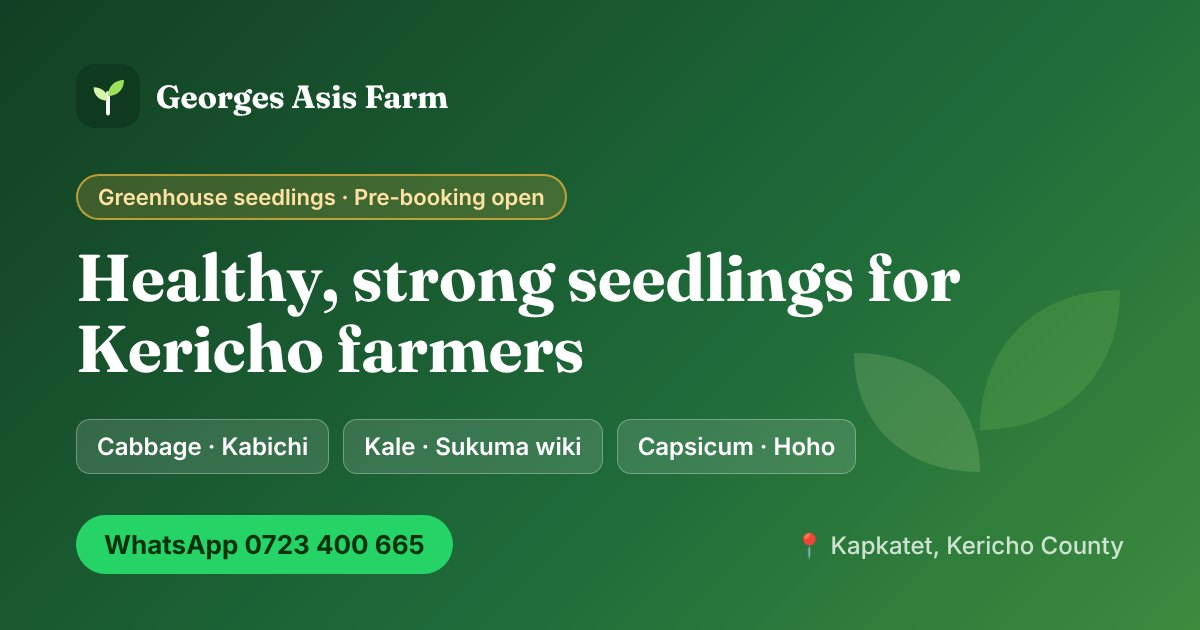
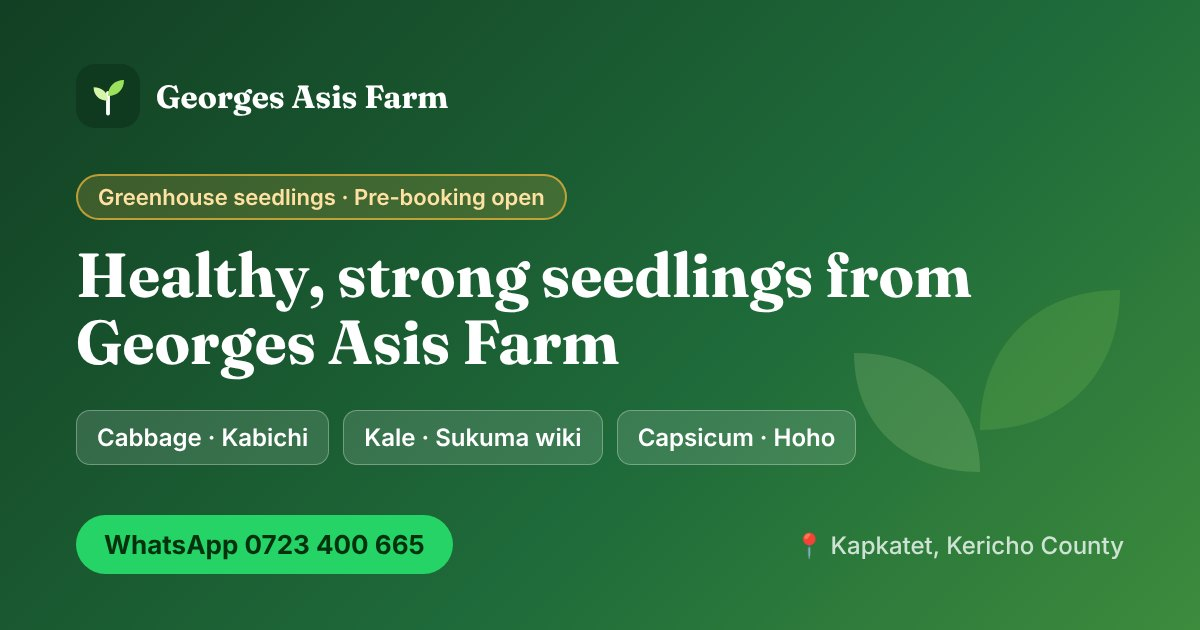
Crop photos, new headline and Google Maps listing link
- Crop cards show photos instead of drawings (drawing kept as fallback)
- Headline: "Healthy, strong seedlings from Georges Asis Farm" with
  "Kapkatet, Kericho County" underneath (English and Kiswahili)
- "Get directions" opens the farm's Google Business Profile on Maps
- Structured data links to the Google listing; preview image updated

Claude-Session: https://claude.ai/code/session_014P8ZKqZaZMJMZDZJx5ghMj

Changed region(s): [[0.0617, 0.3921, 0.8325, 0.6032], [0.0617, 0.6333, 0.7092, 0.754]]

diff --git a/assets/js/data.js b/assets/js/data.js
@@ -11,6 +11,8 @@ window.FARM = {
   landmark: "near Chematich Primary School",
   landmark_sw: "karibu na Shule ya Msingi Chematich",
   mapsQuery: "Chematich Primary School, Kapkatet, Kericho",
+  // Google Business Profile (Google Maps listing). Used for the "Get directions" button.
+  googleMaps: "https://maps.google.com/?cid=5833310573651134852",
 
   // WhatsApp booking line in international format, no + or spaces
   whatsapp: "254723400665",
@@ -33,11 +35,11 @@ window.FARM = {
   // Status shown on the site. When you start selling, set launched: true
   launched: false,
 
-  // Prices are per seedling (KSh)
+  // Prices are per seedling (KSh). photo = picture on the crop card (leave empty to show a drawing)
   seedlings: [
-    { id: "cabbage", name: "Cabbage", local: "Kabichi", price: 2.5, note: "Firm, uniform heads for market and home use.", note_sw: "Vichwa imara vinavyolingana, kwa soko na matumizi ya nyumbani.", art: "cabbage" },
-    { id: "kale", name: "Kale", local: "Sukuma wiki", price: 2, note: "Kenya's everyday green, ready for continuous picking.", note_sw: "Mboga ya kila siku nchini Kenya, tayari kuvunwa mara kwa mara.", art: "kale" },
-    { id: "capsicum", name: "Capsicum", local: "Hoho", price: 4, note: "Sweet pepper seedlings for open field or greenhouse.", note_sw: "Miche ya pilipili hoho kwa shamba la wazi au greenhouse.", art: "capsicum" }
+    { id: "cabbage", name: "Cabbage", local: "Kabichi", price: 2.5, note: "Firm, uniform heads for market and home use.", note_sw: "Vichwa imara vinavyolingana, kwa soko na matumizi ya nyumbani.", art: "cabbage", photo: "assets/img/photos/crop-cabbage.webp" },
+    { id: "kale", name: "Kale", local: "Sukuma wiki", price: 2, note: "Kenya's everyday green, ready for continuous picking.", note_sw: "Mboga ya kila siku nchini Kenya, tayari kuvunwa mara kwa mara.", art: "kale", photo: "assets/img/photos/crop-kale.webp" },
+    { id: "capsicum", name: "Capsicum", local: "Hoho", price: 4, note: "Sweet pepper seedlings for open field or greenhouse.", note_sw: "Miche ya pilipili hoho kwa shamba la wazi au greenhouse.", art: "capsicum", photo: "assets/img/photos/crop-capsicum.webp" }
   ],
 
   // Free photos from Unsplash (Unsplash License), stored in assets/img/photos/.

diff --git a/index.html b/index.html
@@ -16,7 +16,7 @@
   <meta property="og:image" content="https://nelsoncheruiyotmitei.github.io/georges-asis-farm/assets/img/og-image.jpg">
   <meta property="og:image:width" content="1200">
   <meta property="og:image:height" content="630">
-  <meta property="og:image:alt" content="Georges Asis Farm: greenhouse cabbage, kale and capsicum seedlings in Kapkatet, Kericho">
+  <meta property="og:image:alt" content="Georges Asis Farm, Kapkatet: greenhouse cabbage, kale and capsicum seedlings in Kapkatet, Kericho">
   <meta name="twitter:card" content="summary_large_image">
   <meta name="twitter:title" content="Georges Asis Farm | Healthy greenhouse seedlings">
   <meta name="twitter:description" content="Greenhouse cabbage, kale (sukuma wiki) and capsicum (hoho) seedlings in Kapkatet, Kericho. Pre-book on WhatsApp.">
@@ -43,7 +43,8 @@
       "addressRegion": "Kericho County",
       "addressCountry": "KE"
     },
-    "hasMap": "https://www.google.com/maps/search/?api=1&query=Chematich+Primary+School%2C+Kapkatet%2C+Kericho",
+    "hasMap": "https://maps.google.com/?cid=5833310573651134852",
+    "sameAs": ["https://maps.google.com/?cid=5833310573651134852"],
     "areaServed": ["Kericho County", "Bomet County"],
     "openingHoursSpecification": [
       { "@type": "OpeningHoursSpecification", "dayOfWeek": ["Monday", "Tuesday", "Wednesday", "Thursday", "Friday"], "opens": "08:00", "closes": "17:00" },
@@ -89,7 +90,7 @@
       <div class="hero-shade"></div>
       <div class="wrap hero-inner">
         <span class="pill" id="statusPill"><i></i> Launching soon · Pre-booking open</span>
-        <h1 data-i18n="h1">Healthy, strong seedlings for Kericho farmers</h1>
+        <h1 data-i18n="h1">Healthy, strong seedlings from Georges Asis Farm<span class="h1-loc">📍 Kapkatet, Kericho County</span></h1>
         <p class="lead" data-i18n="lead">Greenhouse-raised <b>cabbage</b>, <b>kale (sukuma wiki)</b> and <b>capsicum (hoho)</b> seedlings, grown in Kapkatet for farmers, groups, agro-dealers and institutions.</p>
         <div class="hero-prices" id="heroPrices"></div>
         <div class="hero-cta">

diff --git a/assets/js/app.js b/assets/js/app.js
@@ -49,6 +49,8 @@
       <path d="M44 46c-4 12-2 28 4 40" stroke="#8fdc8f" stroke-width="4" fill="none" stroke-linecap="round" opacity=".7"/></svg>`
   };
 
+  window.ART_FALLBACK = ART; // used if a crop photo fails to load
+
   /* ---------- Rendering (re-run when the language changes) ---------- */
   const qty = Object.fromEntries(F.seedlings.map(s => [s.id, 0]));
 
@@ -70,7 +72,7 @@
   function renderCrops() {
     $("#crops").innerHTML = F.seedlings.map(s => `
       <article class="crop reveal in">
-        <div class="crop-art">${ART[s.art] || ""}</div>
+        <div class="crop-art${s.photo ? " has-photo" : ""}">${s.photo ? `<img src="${s.photo}" alt="${isSw() ? s.local : s.name}" loading="lazy" onerror="this.parentNode.innerHTML=ART_FALLBACK['${s.art}']||''">` : (ART[s.art] || "")}</div>
         <div class="crop-body">
           <h3>${isSw() ? s.local : s.name}</h3><span class="local">${isSw() ? s.name : s.local}</span>
           <p>${pick(s, "note")}</p>
@@ -172,7 +174,7 @@
     btn.textContent = t("copied"); btn.classList.add("ok"); setTimeout(() => { btn.textContent = t("copy"); btn.classList.remove("ok"); }, 1500);
   }));
   $("#partnerMail").href = `mailto:${F.email}?subject=${encodeURIComponent("Partnership enquiry: Georges Asis Farm")}&body=${encodeURIComponent("Hello Nelson,\n\nWe are interested in working with Georges Asis Farm on:\n[ ] Seedlings for CBOs / farmer groups\n[ ] Training and demonstration at the farm\n[ ] Product demonstration and promotion\n\nOrganisation:\nContact person:\nPhone:\n\nRegards,\n")}`;
-  $("#directions").href = "https://www.google.com/maps/search/?api=1&query=" + encodeURIComponent(F.mapsQuery);
+  $("#directions").href = F.googleMaps || ("https://www.google.com/maps/search/?api=1&query=" + encodeURIComponent(F.mapsQuery));
   $("#cPerson").textContent = F.contactPerson;
   $("#cPhone").innerHTML = `<a href="tel:${F.phone}">${F.phoneDisplay}</a>`;
   $("#cEmail").innerHTML = `<a href="mailto:${F.email}">${F.email}</a>`;

diff --git a/assets/css/style.css b/assets/css/style.css
@@ -51,7 +51,8 @@ svg{width:20px;height:20px;fill:currentColor}
 .pill{display:inline-flex;align-items:center;gap:.5rem;background:rgba(246,185,59,.18);border:1px solid rgba(246,185,59,.6);color:#ffe2a3;padding:.4rem .95rem;border-radius:999px;font-size:.86rem;font-weight:600;margin-bottom:1.3rem}
 .pill i{width:8px;height:8px;border-radius:50%;background:var(--sun);animation:pulse 2s infinite}
 @keyframes pulse{0%{box-shadow:0 0 0 0 rgba(246,185,59,.6)}100%{box-shadow:0 0 0 10px rgba(246,185,59,0)}}
-.hero h1{font-size:clamp(2.4rem,5.6vw,4.4rem);max-width:760px}
+.hero h1{font-size:clamp(2.4rem,5.6vw,4.4rem);max-width:800px}
+.h1-loc{display:block;margin-top:.7rem;font-family:var(--font);font-size:clamp(1rem,1.8vw,1.3rem);font-weight:600;letter-spacing:0;color:var(--lime)}
 .lead{font-size:clamp(1.02rem,1.6vw,1.2rem);max-width:600px;margin:1.2rem 0 1.6rem;color:#e6f0e8}
 .hero-prices{display:flex;flex-wrap:wrap;gap:.7rem;margin-bottom:2rem}
 .hp{background:rgba(255,255,255,.12);border:1px solid rgba(255,255,255,.25);backdrop-filter:blur(6px);border-radius:14px;padding:.6rem 1rem;min-width:130px}
@@ -95,6 +96,9 @@ svg{width:20px;height:20px;fill:currentColor}
 .crop-art{height:190px;display:grid;place-items:center;background:radial-gradient(circle at 50% 70%,#e7f5d8,#f6f2e6 70%)}
 .crop-art svg{width:150px;height:150px;transition:transform .5s}
 .crop:hover .crop-art svg{transform:scale(1.08) rotate(-3deg)}
+.crop-art.has-photo{display:block;background:#dfe9d3}
+.crop-art img{width:100%;height:100%;object-fit:cover;display:block;transition:transform .6s}
+.crop:hover .crop-art img{transform:scale(1.05)}
 .crop-body{padding:1.3rem 1.4rem 1.5rem;display:flex;flex-direction:column;gap:.45rem;flex:1}
 .crop-body h3{font-size:1.4rem}
 .crop-body .local{color:var(--green);font-weight:600;font-size:.9rem}

diff --git a/assets/js/i18n.js b/assets/js/i18n.js
@@ -13,7 +13,7 @@ window.FARM_SW = {
   navCta: "Agiza",
 
   // Hero
-  h1: "Miche yenye afya na nguvu kwa wakulima wa Kericho",
+  h1: "Miche yenye afya na nguvu kutoka Georges Asis Farm<span class=\"h1-loc\">📍 Kapkatet, Kaunti ya Kericho</span>",
   lead: "Miche ya <b>kabichi</b>, <b>sukuma wiki</b> na <b>hoho</b> iliyokuzwa ndani ya greenhouse hapa Kapkatet, kwa wakulima, vikundi, maduka ya pembejeo na taasisi.",
   ctaCalc: "Hesabu oda yangu",
   ctaWa: "Agiza kupitia WhatsApp",
